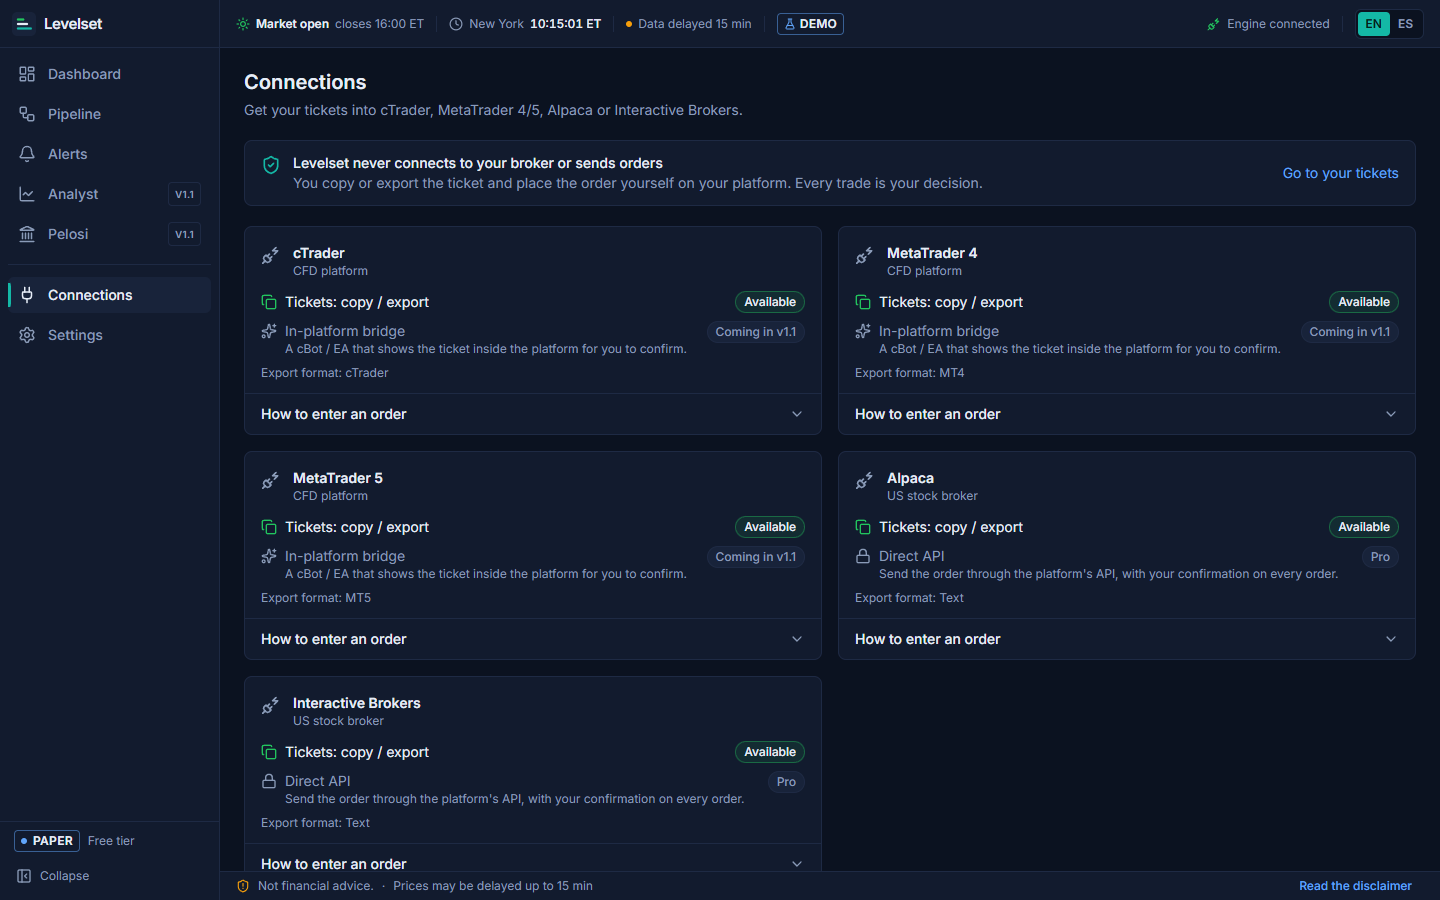
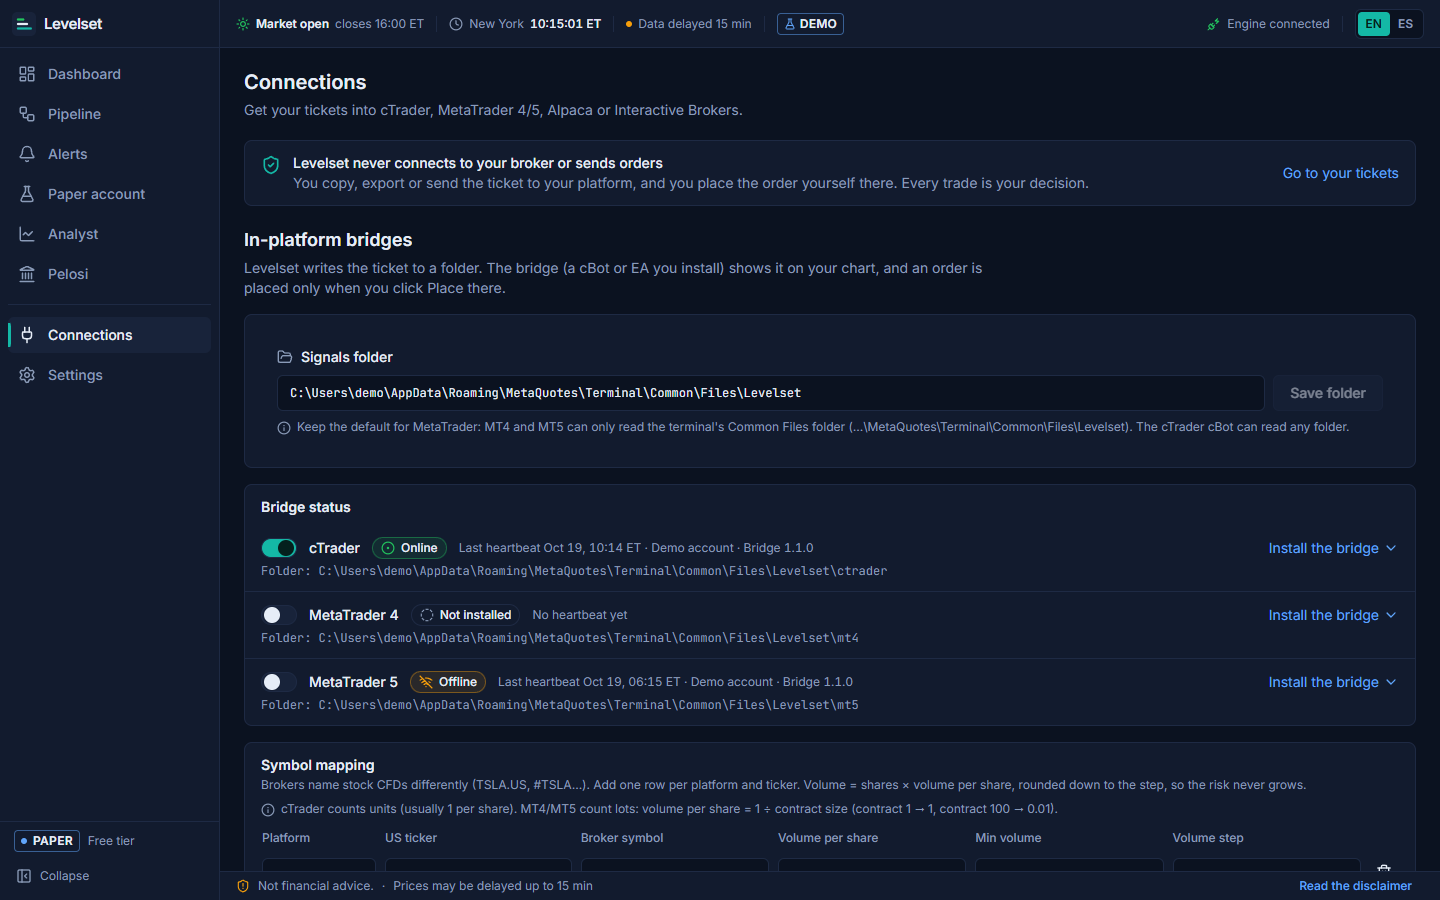
Release prep for v1.1.0: version, changelog, README, screens, screenshots
- Version 1.1.0 in the app, Tauri shell and engine
- CHANGELOG.md with the v1.1 features and fixes
- README: v1.1 features, architecture, demo-mode toggle; SCREENS.md: Paper,
  Analyst, Congress, AI and bridge sections
- Screenshots: new Paper, Analyst, Congress and AI shots; screenshot script
  pins the browser locale and can prepare a page before capturing

diff --git a/engine/levelset_engine/__init__.py b/engine/levelset_engine/__init__.py
@@ -1,3 +1,3 @@
 """Levelset local engine: a FastAPI wrapper around the vendored day-trader skills."""
 
-__version__ = "0.1.1"
+__version__ = "1.1.0"

diff --git a/README.md b/README.md
@@ -18,7 +18,9 @@ The app is available in **English and Spanish** (switch it any time from the sta
 | --- | --- |
 | ![Dashboard: tickets with large entry, stop loss and take profit](docs/screenshots/dashboard.png) | ![Pipeline: the 8 steps behind a ticket](docs/screenshots/pipeline.png) |
 | ![Settings: 7 presets and per-colour editing](docs/screenshots/appearance.png) | ![Spanish UI on the Daylight theme](docs/screenshots/dashboard-es-daylight.png) |
-| ![Connections: how to enter a ticket in cTrader, MT4, MT5](docs/screenshots/connections.png) | |
+| ![Connections: how to enter a ticket in cTrader, MT4, MT5](docs/screenshots/connections.png) | ![Paper account: equity curve, stats and trade log](docs/screenshots/paper.png) |
+| ![Analyst: quarters, margins and what changed](docs/screenshots/analyst.png) | ![Congress trades: House PTR filings](docs/screenshots/congress.png) |
+| ![AI assistant: explains and coaches, never calls trades](docs/screenshots/ai.png) | |
 
 _Screenshots come from the built-in demo (mock engine, TSLA on 2026-10-19). Regenerate with `node app/scripts/screenshots.mjs` while `npm run dev:mock -- --port 5174` runs._
 
@@ -31,6 +33,22 @@ _Screenshots come from the built-in demo (mock engine, TSLA on 2026-10-19). Rege
 - **Risk first**: your max loss per trade, daily loss limit, trades per day, reward:risk minimum
   and entry window are enforced by the trader-risk skill before a ticket is marked ready.
 - **Alerts**: stop, target, flat-by and price alerts with desktop notifications.
+- **Paper account** (v1.1): follows every ticket that passes the risk check, with next-bar fills,
+  slippage (0.02 % + $0.01/share by default), stop-first when a bar touches both levels and the
+  flat-by close. Equity curve, win rate, expectancy, drawdown, breakdowns, trade log, "signals vs.
+  you" and CSV export. Paper trades never count toward your real limits. After a restart it
+  catches up on the missed part of the day.
+- **AI assistant** (v1.1, optional, off by default): bring your own Claude API key (kept in
+  Windows Credential Manager) and pick Haiku, Sonnet or Opus with a monthly cap (US$5 by
+  default). It explains steps and blocked tickets, summarises news, reviews your paper results
+  and answers questions about your own data. It never makes buy/sell calls or price predictions.
+- **Analyst and Congress trades** (v1.1): quarterly results from SEC EDGAR with what changed,
+  and the House's public stock-trade disclosures (PTRs) with watchlist alerts.
+- **Platform bridges** (v1.1, source in [`bridges/`](bridges/)): a cTrader cBot and MT4/MT5 EAs
+  that show a Levelset ticket inside the platform. The order is placed only when you click
+  **Place** there.
+- **Runs in the background**: closing the window keeps Levelset in the tray; optional start
+  with Windows and keep-awake during market hours.
 - **Demo mode**: offline fixtures and a pinned clock (Mon 2026-10-19 10:15 ET), so you can try
   the whole flow without market data. The README example ends at 8 x TSLA, entry 364.18,
   stop 358.32, target 370.04.
@@ -54,8 +72,8 @@ _Screenshots come from the built-in demo (mock engine, TSLA on 2026-10-19). Rege
 ```mermaid
 flowchart LR
   subgraph App["Levelset.exe (Tauri 2)"]
-    UI["React UI (WebView2)<br/>Dashboard · Pipeline · Alerts · Settings"]
-    Shell["Rust shell<br/>window · notifications · engine sidecar"]
+    UI["React UI (WebView2)<br/>Dashboard · Pipeline · Paper · Analyst · Congress · Settings"]
+    Shell["Rust shell<br/>window · tray · notifications · engine sidecar · secrets"]
   end
   subgraph Engine["levelset-engine.exe (PyInstaller)"]
     API["FastAPI on 127.0.0.1:random<br/>bearer token · SSE /events"]
@@ -63,13 +81,17 @@ flowchart LR
     DB[("SQLite + trader/*.json<br/>in the workspace")]
   end
   Skills["vendor/day-trader-skill<br/>11 skills (MIT)"]
-  Data["Free data<br/>Yahoo · SEC EDGAR · Nasdaq Trader"]
+  Data["Free data<br/>Yahoo · SEC EDGAR · Nasdaq Trader · House Clerk"]
+  Claude["Claude API<br/>(optional, your key)"]
+  Bridges["cTrader / MT4 / MT5<br/>bridge reads a signals folder"]
 
   Shell -- "spawn --port 0 --token, wait for ready line,<br/>kill on exit (Job Object)" --> API
   UI -- "HTTP + SSE" --> API
   API --> Runner --> Skills
   Runner --> DB
   Skills -. "live mode only" .-> Data
+  API -. "AI on" .-> Claude
+  API -. "signal files" .-> Bridges
 ```
 
 More in [docs/ARCHITECTURE.md](docs/ARCHITECTURE.md), [docs/PRD.md](docs/PRD.md),
@@ -111,12 +133,12 @@ Tests: `cd engine && .venv\Scripts\python -m pytest -q` ·
 powershell -ExecutionPolicy Bypass -File engine\packaging\build.ps1   # engine exe + smoke test + stage sidecar
 cd app
 npm run tauri:build
-# -> app\src-tauri\target\release\bundle\nsis\Levelset_0.1.0_x64-setup.exe
+# -> app\src-tauri\target\release\bundle\nsis\Levelset_1.1.0_x64-setup.exe
 ```
 
 The installer is per-user (no admin rights), adds a Start menu entry and bundles the engine, so
-no Python is needed on the target PC. Demo mode in the installed app: set `LEVELSET_DEMO=1`, or
-create an empty file named `demo` in `%APPDATA%\app.levelset.desktop\`. Details:
+no Python is needed on the target PC. Demo mode in the installed app: Settings › System › Demo
+mode (restarts Levelset), or set `LEVELSET_DEMO=1`. Details:
 [engine/packaging/README.md](engine/packaging/README.md).
 
 ## Web demo

diff --git a/docs/SCREENS.md b/docs/SCREENS.md
@@ -1,8 +1,8 @@
-# Levelset — Screen Plan (v0.1, draft for sign-off)
+# Levelset — Screen Plan (v1.1)
 
 Global frame on every screen:
-- **Sidebar** (collapsible): Dashboard · Pipeline · Alerts · Analyst (v1.1) · Pelosi (v1.1) · Connections · Settings. Footer: Paper/Live label, tier.
-- **Status bar** (top): market open/closed · New York time (ET) · data delay · engine status · language switch.
+- **Sidebar** (collapsible): Dashboard · Pipeline · Alerts · Paper account · Analyst · Pelosi · Connections · Settings. Footer: Paper/Live label, tier.
+- **Status bar** (top): market open/closed · New York time (ET) · data delay · engine status · AI chat toggle (when AI is on) · language switch.
 - **Disclaimer** link always reachable; first-run acceptance required.
 
 Default window 1440×900, minimum 1180×720. Base font 14 px; numbers use tabular figures.
@@ -68,7 +68,7 @@ States: empty ("Run the scanner to find today's setups" + Run button), loading (
 - Toggle: Windows notifications, sound.
 
 ## S4. Settings
-Tabs: **Account & limits** · **Appearance** · **Language** · **Data & SEC** · **AI (optional)** · **About** (versions, MIT notice for day-trader-skill, licence tier).
+Tabs: **Account & limits** · **Paper account** (auto-follow, slippage) · **Appearance** · **Language** · **Data & SEC** · **AI (optional)** (on/off, model, monthly cap, spend, key) · **System** (start with Windows, keep awake in market hours, demo mode) · **About** (versions, MIT notice for day-trader-skill, licence tier).
 
 Appearance:
 ```
@@ -81,13 +81,32 @@ Appearance:
 
 ## S5. Connections
 - Cards per platform: cTrader, MetaTrader 4, MetaTrader 5, Alpaca, Interactive Brokers.
-- v1: each shows "Tickets: copy / export" + step-by-step how-to (EN/ES). Bridge/API cards show "Coming in v1.1 / Pro".
+- Each shows "Tickets: copy / export" + step-by-step how-to (EN/ES).
+- v1.1 bridges (cTrader, MT4, MT5): install guide (EN/ES), signals folder, heartbeat status per platform, symbol-mapping editor (US symbol → broker symbol, volume conversion). PASS tickets get "Send to platform"; the card shows sent / placed / dismissed, and the user confirms with Place inside the platform.
 
 ## S6. Onboarding (first run)
 1. Language → 2. Theme (preset previews) → 3. Account & limits (with sensible defaults, $ max loss explained) → 4. Disclaimer acceptance → 5. "Try the demo trade" or "Scan the market".
 
-## S7. Analyst (v1.1) · S8. Pelosi (v1.1)
-Specified later; same frame and components.
+## S7. Analyst
+- Ticker search → quarters table (revenue, gross / operating / net margin, net income, diluted EPS, each with YoY), TTM, translated "what changed" lines, latest 8-K / press release link.
+- Revenue and EPS by quarter chart. "Reports this week" badge also on tickets and the watchlist.
+- Prompts for the SEC identity (Settings › Data & SEC) when it is missing. AI "What changed this quarter?" when AI is on.
+
+## S8. Pelosi (Congress trades)
+- Feed of House PTR filings: member, owner, ticker, buy/sell, amount range, trade date, days to disclose; "in your watchlist / positions" flag.
+- Filters: member, ticker, type, date. Refresh. Toggle "notify me when a new filing mentions my watchlist".
+- Note: public disclosures, delayed up to 45 days; not inside information.
+
+## S9. Paper account
+- Account switcher (create, reset with confirmation, period selector).
+- KPIs: P/L, win rate, expectancy (R), profit factor, max drawdown, longest losing streak. Equity curve.
+- Breakdowns by ticker / setup / hour / weekday. Trade log (entry/exit, reason, R, P/L, backfilled, skipped, "View flow"). "Signals vs. you". CSV export.
+- Notes: fills are approximate (delayed, bar-based data); the PC must be on, awake and online in market hours.
+- Elsewhere: Dashboard tile "Paper P/L today", PAPER badge in Open trades, "Paper: opened 364.29" on the ticket card. AI coach review card when AI is on.
+
+## S10. AI assistant (optional)
+- Side chat panel scoped to Levelset data; Explain buttons on pipeline steps, blocked tickets, news and the Analyst page.
+- Every answer shows the data it used, its cost and a "not financial advice" footer. Never buy/sell calls or price predictions.
 
 ---
 

diff --git a/CHANGELOG.md b/CHANGELOG.md
@@ -1,0 +1,63 @@
+# Changelog
+
+## v1.1.0
+
+Levelset still never sends an order. Bridges only show a ticket inside your platform, and the
+order is placed when you click **Place** there.
+
+### Paper account
+- Follows every ticket that passes the risk check (auto-follow, on by default; can be switched off).
+- Fills at the next bar's open plus slippage (0.02 % + $0.01/share by default, configurable).
+  When a bar touches both the stop and the target, the stop counts first. Gaps fill at the bar's
+  open. Positions close at the flat-by time.
+- Unlimited accounts and periods, with full history. Paper trades never count toward the real
+  daily loss or trades-per-day limits.
+- Reports: equity curve, P/L, win rate, expectancy (R), profit factor, max drawdown, longest
+  losing streak, breakdowns by ticker / setup / hour / weekday, trade log with "View flow",
+  "signals vs. you" and CSV export.
+- Catch-up: after a restart the engine replays the missed part of the day "as of" those times
+  and marks those trades as backfilled. It waits until onboarding is finished, and your own runs
+  always go first.
+- Dashboard tile "Paper P/L today", PAPER badge in Open trades, paper line on the ticket card.
+
+### AI assistant (optional, off by default)
+- Bring your own Claude API key. It is stored in Windows Credential Manager, passed to the engine
+  in memory only, and never readable by the UI.
+- Choose Haiku, Sonnet (default) or Opus, and set a monthly soft cap (US$5 by default). Each
+  answer shows its cost.
+- Explain buttons on pipeline steps, blocked tickets, news and the Analyst page. Coach review of
+  paper and manual results. Chat panel about your own Levelset data.
+- Read-only tools. Answers cite the data they used and carry a "not financial advice" footer.
+  An output guard blocks buy/sell calls and price predictions, tested on a red-team set in
+  English and Spanish.
+
+### Analyst and Congress trades
+- Analyst (trader-analyst): quarters from SEC EDGAR with margins, EPS, YoY, TTM, what changed,
+  the latest 8-K, a revenue / EPS chart, and a "reports this week" badge on tickets and the
+  watchlist.
+- Congress trades (trader-pelosi): House PTR filings with filters, watchlist / position flags,
+  and an optional notification when a new filing mentions your watchlist.
+- Both pages work offline in demo mode.
+
+### Platform bridges (source in `bridges/`)
+- cTrader cBot (C#), MT4 and MT5 EAs read a signals folder and show the ticket with Entry /
+  Stop loss / Take profit, volume and max loss, plus **Place** and **Dismiss** buttons.
+- Connections page: install guide (EN/ES), signals folder, heartbeat status, and a symbol-mapping
+  editor with share-to-lot conversion (rounded down, so the risk never grows).
+- Tested against stand-ins only so far. A live check on a Pepperstone demo account is pending, so
+  a bridge may get fixes in v1.1.x.
+
+### Desktop
+- Closing the window keeps Levelset in the tray. Optional start with Windows and keep-awake
+  during market hours. Only one copy of the app can run at a time.
+- Demo mode toggle in Settings › System (restarts Levelset).
+- Native Save dialog for exports.
+
+### Fixes
+- Saving settings no longer waits behind a running pipeline step. Onboarding could look stuck
+  before this fix.
+
+## v0.1.0
+
+First release: dashboard tickets, the eight-step pipeline, alerts, settings with seven themes,
+English and Spanish, demo mode and the web demo.
